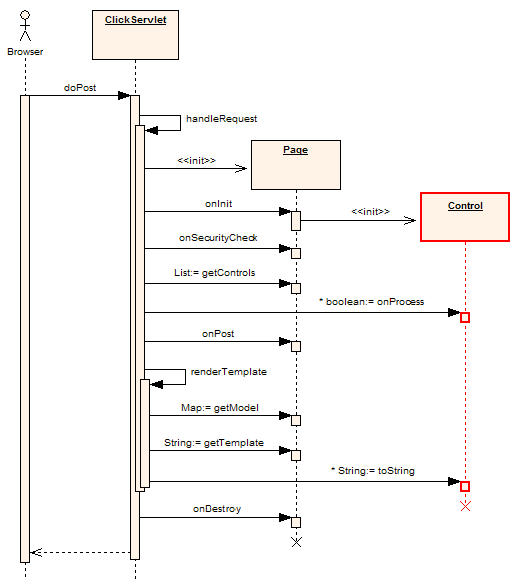
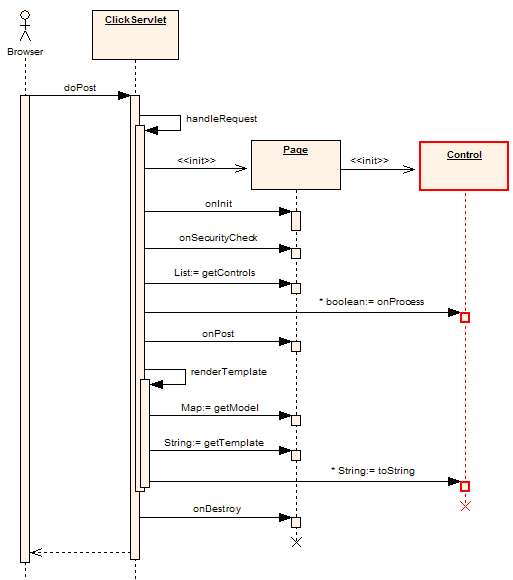
updated doco
git-svn-id: https://svn.apache.org/repos/asf/incubator/click/trunk@714719 13f79535-47bb-0310-9956-ffa450edef68

diff --git a/click/webapps/click-documentation/docs/pages.html b/click/webapps/click-documentation/docs/pages.html
@@ -40,7 +40,13 @@ components being defined in page elements of the
 </pre>
 
 The path attribute specifies the location of the page Velocity template, and the classname
-attribute specifies the page Java class name.
+attribute specifies the page Java class name. 
+<p/>
+Alternatively you can also configure Click to use JSP pages for rendering.
+
+<pre class="codeConfig">
+&lt;page path="<span class="blue">search.jsp</span>" classname="<span class="red">com.mycorp.page.Search</span>"/&gt; 
+</pre>
 
 <a name="page-class" class="heading"><h2>Classes</h2></a>
 
@@ -78,8 +84,7 @@ provide functionality:
 </ul>
 The ClickServlet relies on instantiating Pages using a public no arguments constructor, 
 so when you create Page subclasses you must ensure you don't add an incompatible
-constructor. By convention in Click you place initialization code in an <tt>onInit()</tt>
-method and you generally don't implement a constructor.
+constructor.
 
 <a name="page-execution" class="heading"><h2>Execution</h2></a>
 
@@ -94,7 +99,8 @@ The GET request execution sequence for Pages is summarized below in the Figure 2
 
 Stepping through this GET request sequence, a new Page instance is created and the 
 attributes for the Page are set (context, format, headers, path). Next the <tt>onInit()</tt>
-method is invoked. This is where you typically place your initialization code.
+method is invoked, this is where you place any initialization code which requires
+access to the <a target="topic" href="click-api/net/sf/click/Context.html">Context</a>.
 <p/>
 The next method invoked is the <tt>onSecurityCheck()</tt> handler. This method can used to 
 ensure the user is authorized to access the page, and if necessary can abort any 
@@ -250,11 +256,18 @@ Finally set this page as the page to forward the request to. For example:
    <span class="kw">return false</span>;
 } 
 </pre>
+
+When creating a page with the <tt>createPage()</tt> method ensure you prefix
+the page path with the <tt class="st">"/"</tt> character.
+<p/>
 You can also specify the target page using its class as long as the Page has
-a unique path. So the above code becomes:
+a unique path. Using this technique the above code becomes:
 
 <pre class="codeJava">
-   ..
+<span class="kw">public boolean</span> onEditClick() {
+   Long id = viewLink.getValueLong();
+   Customer customer = CustomerDAO.findByPK(id); 
+   
    EditPage editPage = (EditPage) getContext().createPage(EditPage.<span class="kw">class</span>);
    editPage.setCustomer(customer);
    setForward(editPage);
@@ -263,8 +276,11 @@ a unique path. So the above code becomes:
 }
 </pre>
 
-When creating a page with the <tt>createPage()</tt> method ensure you prefix
-the page path with the <tt class="st">"/"</tt> character.
+This Page forwarding technique is best practice as it provides you with compile time safety and
+alleviates you from having to specify page paths in your code.
+<p/>
+Please always use the Context <tt>createPage()</tt> methods to allow Click to 
+inject Page dependencies..
 
 <a name="page-template-path" class="heading"><h3>Template Path</h3></a>
 
@@ -441,10 +457,7 @@ An example bordered Home page is provided below:
 
 <pre class="codeJava"><span class="kw">public class</span> Home <span class="kw">extends</span> BorderedPage {
    
-     <span class="jd">/**
-      * @see Page#onInit()
-      */</span>
-     <span class="kw">public void</span> onInit() {
+     <span class="kw">public</span> Home() {
          addModel(<span class="st">"title"</span>, <span class="st">"Home"</span>);
      }
 } </pre>

diff --git a/click/webapps/click-documentation/docs/why-click.html b/click/webapps/click-documentation/docs/why-click.html
@@ -58,8 +58,8 @@ more simply.
 <p/>
 Click Forms and Controls provide automatic validation and rendering, making form development very fast and robust.
 
-<h2>JSP & MVC Free</h2>
-Click is JSP Free. This is a good thing! 
+<h2>JSP &amp; MVC Free</h2>
+Click is JSP and MVC Free. This is a good thing! 
 <p/>
 JSP's combined with the miss application of the MVC pattern have been holding back J2EE web development for many years. 
 It's a big statement I know, please let me explain.
@@ -88,7 +88,7 @@ To see this concept in action take a simple Click page where we have an ActionLi
 <pre class="codeJava">
 <span class="kw">public class</span> ExamplePage <span class="kw">extends</span> Page {
 
-    <span class="kw">public void</span> onInit() {
+    <span class="kw">public</span> ExamplePage() {
         ActionLink clickLink = new ActionLink("<span class="st">clickLink</span>");
         clickLink.setListener(this, "<span class="st">onClick</span>");
         addControl(clickLink);    
@@ -142,7 +142,7 @@ instruction set which is very easy to learn and use.
 For example take a look at the template below.
 
 <pre class="codeHtml">
-<span class="kw">#if</span> (<span class="st">$session.order.lineItems.size()</span> > 0)
+<span class="kw">#if</span> (!<span class="st">$session.order.lineItems.empty</span>)
 &lt;table&gt;
   &lt;tr&gt;
     &lt;th&gt;Name&lt;/th&gt; &lt;th&gt;Quantity&lt;/th&gt; &lt;th&gt;Total Price&lt;/th&gt;
@@ -164,6 +164,10 @@ You should have a pretty good idea of what this code does without having to cons
 documentation. Velocity's ease of use made it the ideal choice for Click. 
 <p/>
 The one tricky part of Velocity, <i>configuration</i> is handled automatically by Click.
+<p/>
+Please note after all that you can also use JSPs for rendering in Click. It 
+should be said that JSP 2.0 and the JSP Expression Language has greatly improved
+the usability of JSP in recent years.
 
 </table>
 </body>

diff --git a/click/webapps/click-documentation/docs/configuration.html b/click/webapps/click-documentation/docs/configuration.html
@@ -502,7 +502,7 @@ ResourceManager will not be able to load them.
 <p/>
 The simplest way to set your own macro file is to add a file named <span class="blue"><tt>macro.vm</tt></span>
 under your web application's root directory. At startup Click will first check to see
-if this file exists, and if it does use it instead of <tt>click/VM_global_library.vm</tt>.
+if this file exists, and if it does it will use it instead of <tt>click/VM_global_library.vm</tt>.
 
 
 <a name="auto-deployed-files" class="heading"><h2>Auto Deployed Files</h2></a> 
@@ -511,10 +511,9 @@ web application, if not already present. You can modify these support files and
 Click will not overwrite them. These files include:
 
 <ul>
-   <li>click/calendar.gif &nbsp; - &nbsp; the DateField calendar image</li>
    <li>click/error.htm &nbsp; - &nbsp; the Page <a href="pages.html#page-error-handling">Error Handling</a> template</li>
-   <li>click/form.css &nbsp; - &nbsp; the Form cascading stylesheet</li>
-   <li>click/form.js &nbsp; - &nbsp; the Form JavaScript library</li>
+   <li>click/control.css &nbsp; - &nbsp; the Controls cascading stylesheet</li>
+   <li>click/control.js &nbsp; - &nbsp; the Controls JavaScript library</li>
    <li>click/not-found.htm &nbsp; - &nbsp; the <a href="pages.html#page-not-found">Page Not Found</a> template</li>
    <li>click/VM_Global_library.vm &nbsp; - &nbsp; an empty Velocity macro library</li>
 </ul>

diff --git a/click/webapps/click-documentation/docs/faq.html b/click/webapps/click-documentation/docs/faq.html
@@ -346,14 +346,14 @@ public interface Controller {
   <dd>
    Click fully supports JSP pages. 
    <p/>
-   JSP Pages can be automatically loaded, like Velocity templates, or they can be explicitly defined in the
-   <tt>click.xml</tt> file.
+   JSP Pages can be automatically loaded, like Velocity templates, and 
+   can be explicitly defined in the <tt>click.xml</tt> file.
    
  <pre class="codeConfig">
 &lt;page path="<span class="blue">customers-table.jsp</span>" class="<span class="red">com.mycorp.pages.CustomersTable</span>"/&gt; </pre>
    
    The page's model data values are automatically added to the request as
-   attributes so they are available in the JSP page. Other Click values added 
+   attributes so they are available in the JSP. Other Click values added 
    as request attributes include:
    <p/>
    <ul>
@@ -369,8 +369,8 @@ public interface Controller {
    for the Page <a href="click-api/net/sf/click/Page.html#getMessage(java.lang.String)">getMessage()</a>
    method
   </li>
-  <li>path &nbsp; - &nbsp; the mapped <a href="click-api/net/sf/click/Page.html#path">path</a> 
-    of the page which will have a .htm extension
+  <li>path &nbsp; - &nbsp; the mapped request <a href="click-api/net/sf/click/Page.html#path">path</a> 
+    of the page. Note this will have a .htm not a .jsp extension
   </li>
    </ul>
    <p/>

diff --git a/click/webapps/click-documentation/docs/introduction.html b/click/webapps/click-documentation/docs/introduction.html
@@ -54,10 +54,7 @@ Next we have our page class <span class="green"><tt>examples.page.HelloWorld</tt
 
 <span class="kw">public</span> HelloWorld <span class="kw">extends</span> Page {
 
-    <span class="jd">/**
-     * @see Page#onGet()
-     */</span>
-    <span class="kw">public void</span> onGet() {
+    <span class="kw">public</span> HelloWorld() {
         addModel("<span class="st">time</span>", <span class="kw">new</span> Date());
     }
 } 
@@ -79,8 +76,7 @@ And then we have the page template <span class="blue">hello-world.htm</span>:
 
 At runtime the ClickSerlvet maps a GET <span class="blue">hello-world.htm</span> 
 request to our page class <span class="green"><tt>example.page.HelloWorld</tt></span> and creates a new instance. 
-The ClickServlet then invokes the page's <tt>onGet()</tt> method. This method creates a 
-new <tt>Date</tt> object and adds it to the page's model as a value called 
+The HelloWorld page constructor creates a new <tt>Date</tt> object and adds it to its model as a value called 
 <span class="st">time</span>.
 <p/>
 The page model is then merged with the template which substitutes the 

diff --git a/click/webapps/click-documentation/docs/controls.html b/click/webapps/click-documentation/docs/controls.html
@@ -92,10 +92,7 @@ listener method to be invoked. For example:
 <pre class="codeJava">
 <span class="kw">public class</span> SimpleCallback <span class="kw">extends</span> Page {
 
-    <span class="jd">/**
-     * @see Page#onInit()
-     */</span>
-    <span class="kw">public void</span> onInit() {
+    <span class="kw">public</span> SimpleCallback() {
         ActionLink clickLink = <span class="kw">new</span> ActionLink(<span class="st">"clickLink"</span>);
         clickLink.setListener(<span class="kw">this</span>, <span class="st">"onClick"</span>);
         addControl(clickLink);    
